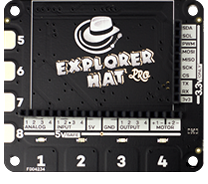
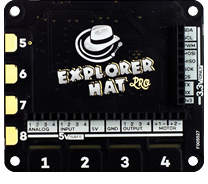
Updated and added Explorer images

diff --git a/src/en/overlay/explorer-hat.md b/src/en/overlay/explorer-hat.md
@@ -3,6 +3,7 @@
 name: Explorer HAT
 class: board
 type: multi
+image: 'explorer-hat.png'
 manufacturer: Pimoroni
 description: An all-in-one light, input, touch and output add-on board.
 url: https://github.com/pimoroni/explorer-hat

diff --git a/src/en/overlay/explorer-phat.md b/src/en/overlay/explorer-phat.md
@@ -3,6 +3,7 @@
 name: Explorer pHAT
 class: board
 type: multi
+image: 'explorer-phat.png'
 manufacturer: Pimoroni
 description: An all-in-one input, output and motor add-on board.
 url: https://github.com/pimoroni/explorer-hat
